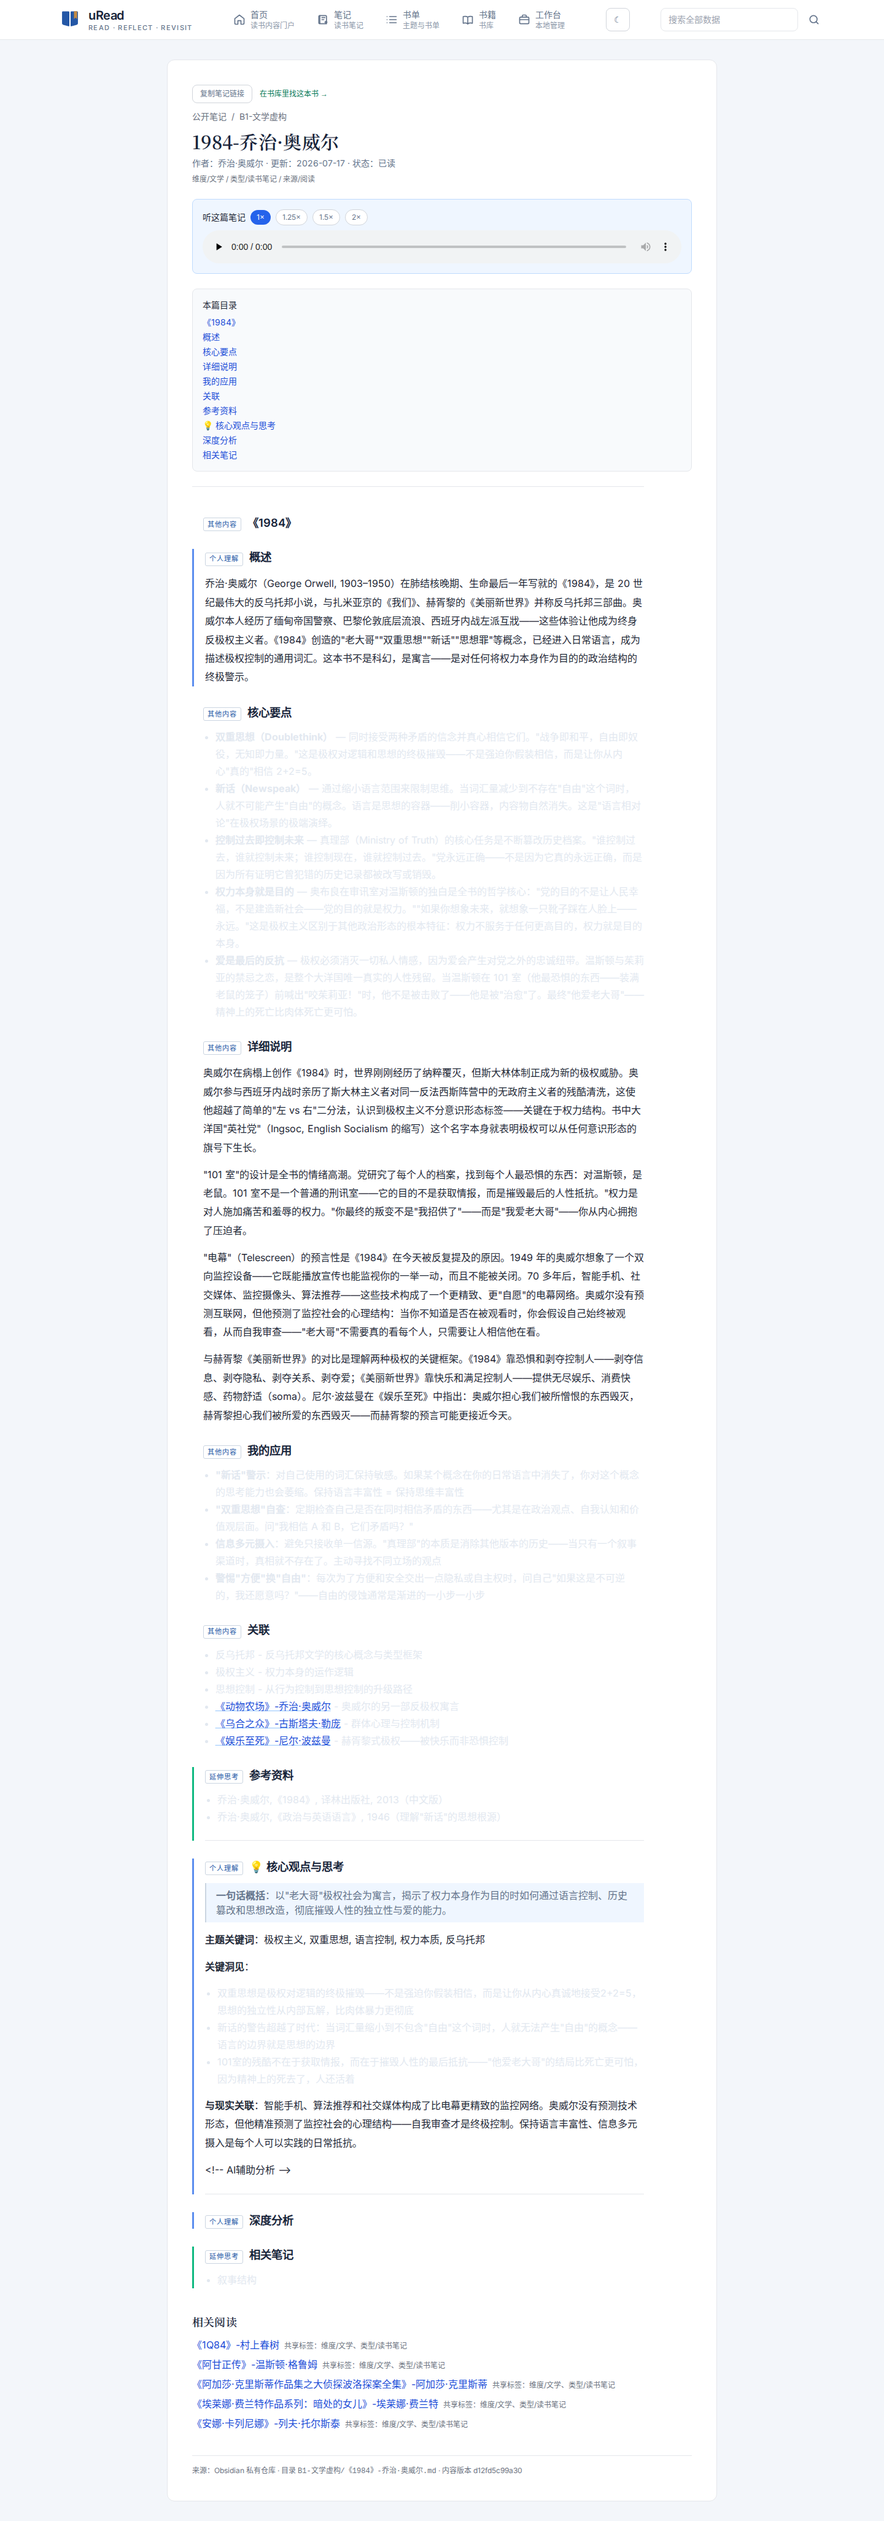
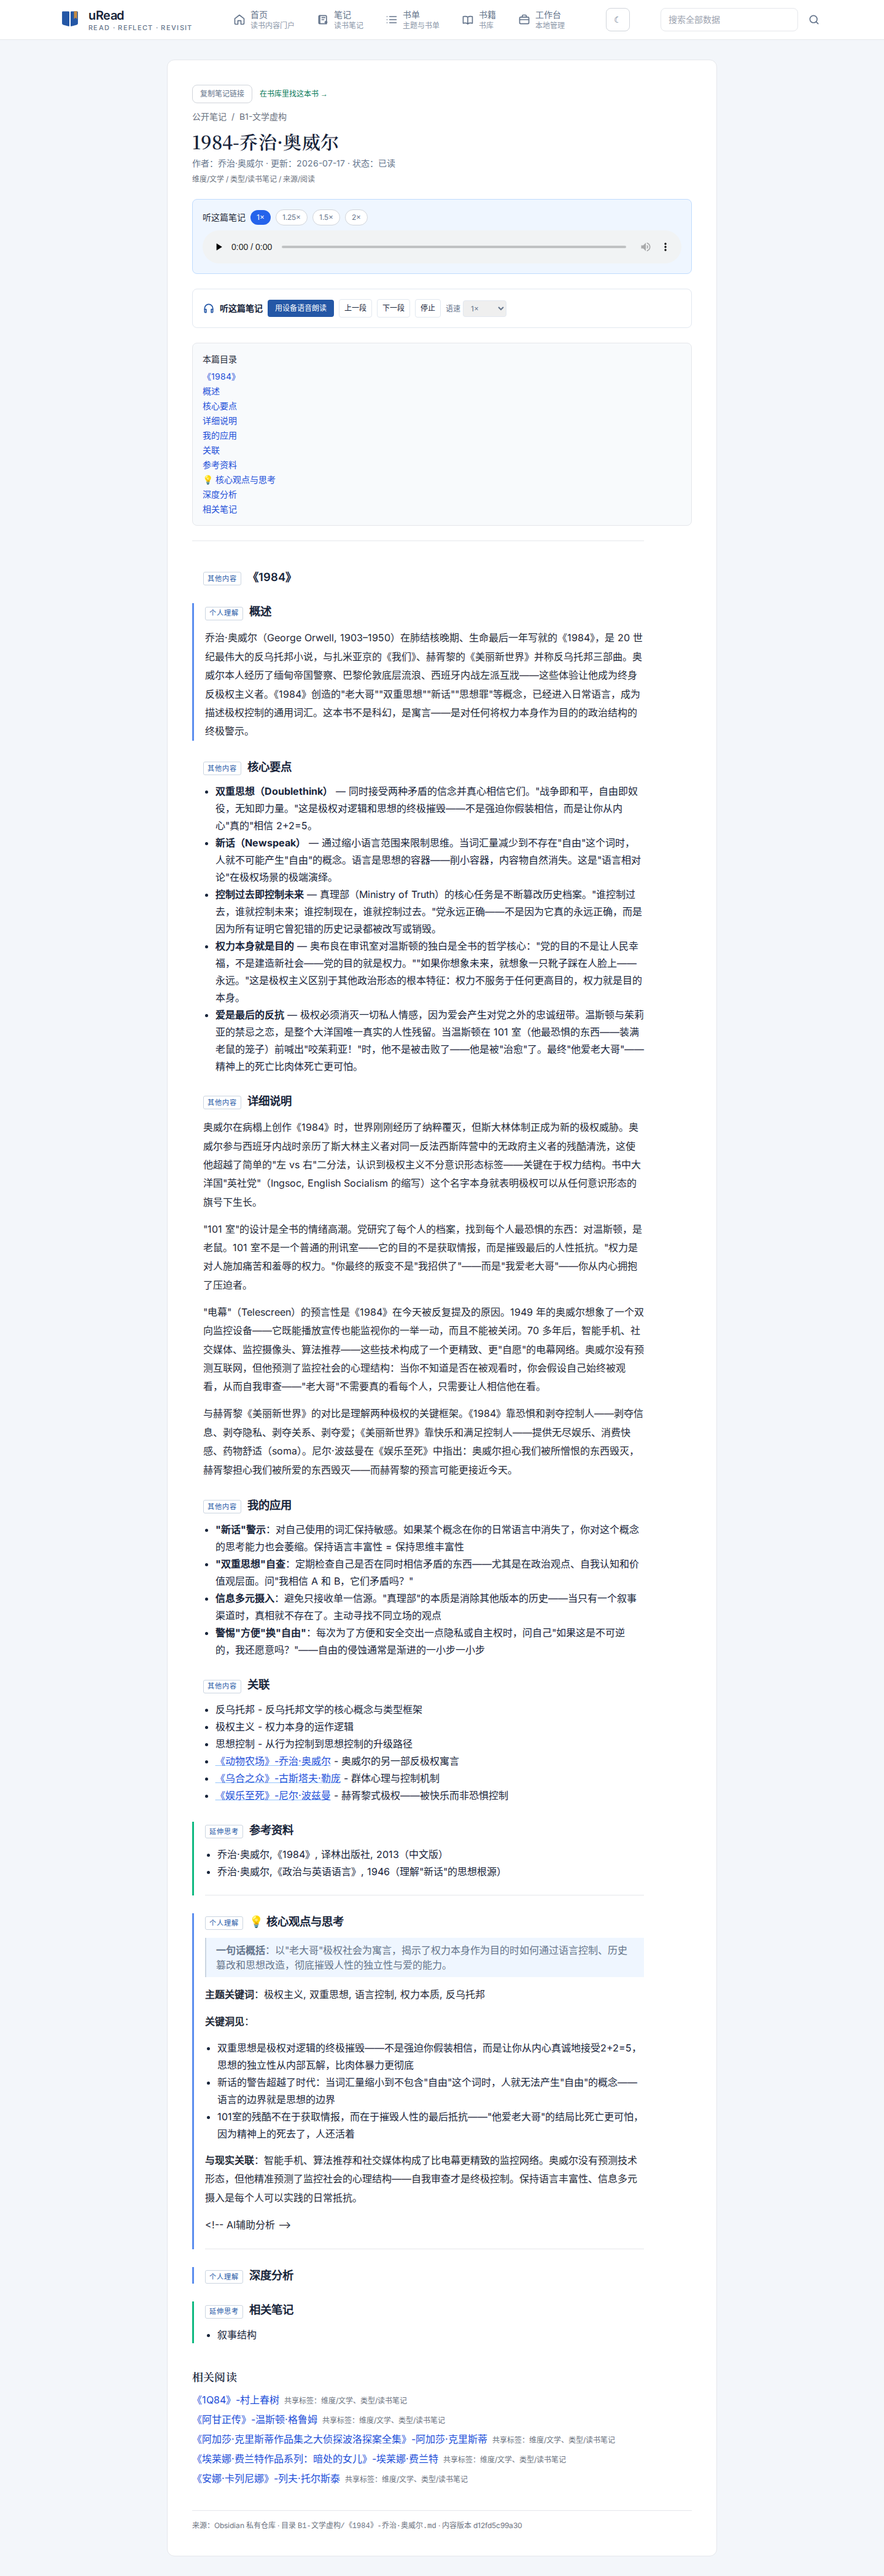
feat: 10 轮 UI/UX/速度优化收口，升级 0.32.0

Changed region(s): [[0.2188, 0.0312, 0.75, 0.9664]]

diff --git a/CHANGELOG.md b/CHANGELOG.md
@@ -2,6 +2,15 @@
 
 本文件遵循 [Keep a Changelog](https://keepachangelog.com/zh-CN/1.1.0/)，版本号遵循语义化版本。
 
+## [0.32.0] - 2026-11-20
+
+### 易用性 / 速度 / 趣味（10 轮）
+- 速度：新增 1.5MB 笔记索引，首页与继续阅读不再下载 16MB 正文；修复相同版本误报更新。
+- 听读 V1：任意公开笔记可一键用设备语音朗读（零文件、零网络、不上传正文），继续阅读纳入全部笔记。
+- 结构：/workspace/* 路由分层 + 旧路径带参重定向；移动端公开站与工作台各自一套导航。
+- 专业：页面级 SEO、浅色对比度修复、静态书页统一品牌令牌、sitemap/RSS/robots。
+- 趣味：首页编辑配置控制精选内容。
+
 ## [0.31.0] - 2026-11-20
 
 ### 安全（专项 2）

diff --git a/README.md b/README.md
@@ -8,7 +8,7 @@ uRead 是一个**本地优先**的阅读与知识沉淀工具：导入资料 →
 
 ## 现状（真实能力）
 
-> 当前版本：**0.31.0**（变更记录见 `CHANGELOG.md`）。
+> 当前版本：**0.32.0**（变更记录见 `CHANGELOG.md`）。
 
 > 本表只列**已实现且可复核**的能力。「复核方式」列出的命令都能在本仓库直接运行；
 > 未实现的能力一并列出，避免把规划当成功能。

diff --git a/docs/listen/_index.md b/docs/listen/_index.md
@@ -1,0 +1,7 @@
+---
+type: docs
+title: uRead Listen 听读系统
+description: "设备原生朗读、缓存音频与未来流式语音的架构与实施记录。"
+---
+
+听读系统让任意公开笔记点击即朗读，不依赖预生成 WAV。当前实现见审计与架构文档。
